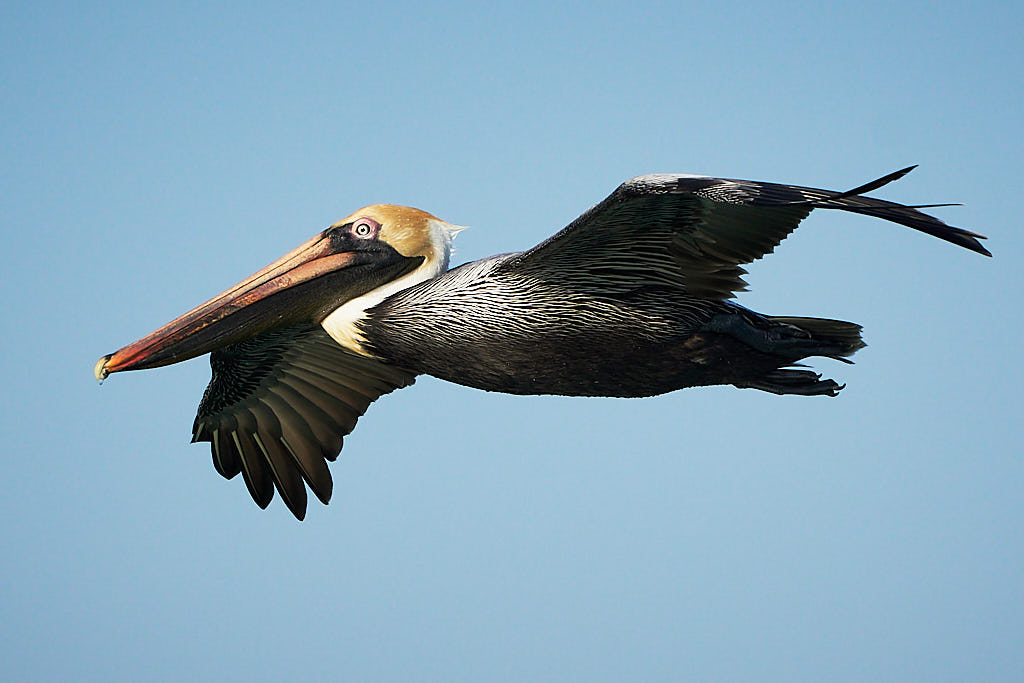
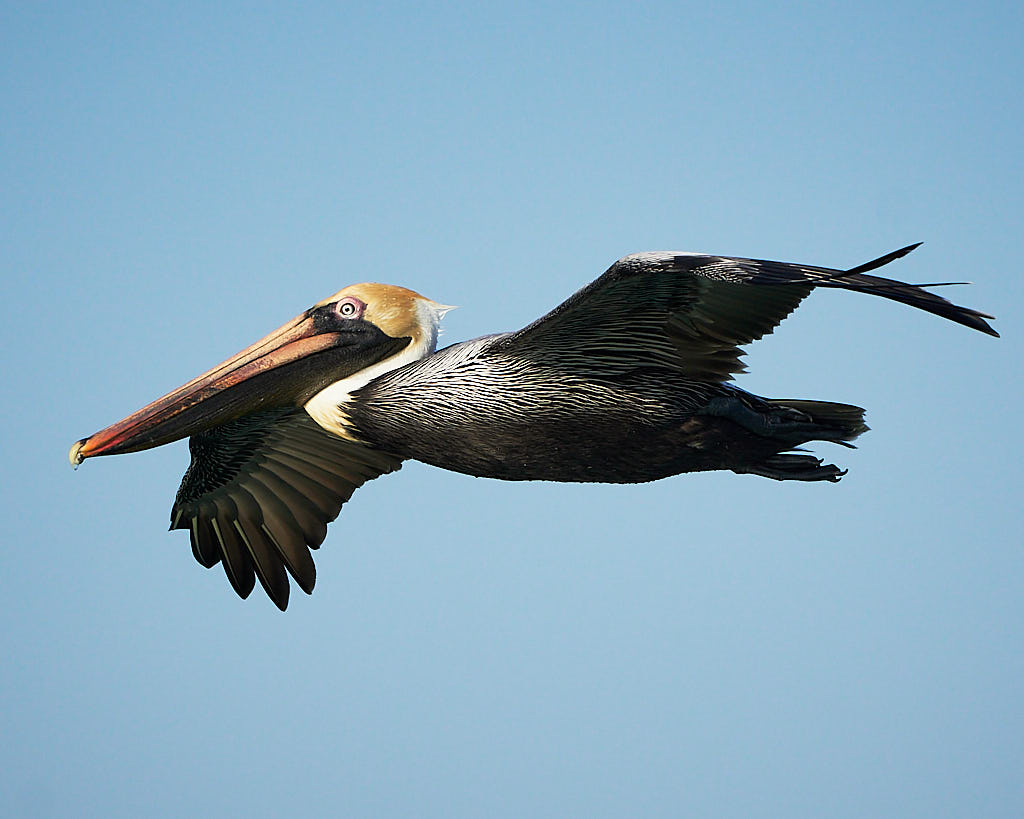
Correct blog images and add preview on main blog page

Changed region(s): [[0.0625, 0.246, 0.9688, 0.7687]]

diff --git a/docs/Blog Archive/2023-03/2023-03-05.md b/docs/Blog Archive/2023-03/2023-03-05.md
@@ -1,84 +1,34 @@
 
-## Florida Birding
+## Sunny Florida Adventures
 2023-03-05
 
-[[SpecificLinkToBlogHere|< Back to Blog Home]]
+[[Blog#Sunny Florida Adventures|< Back to Blog Home]]
 
 ![[DSC05832_3.jpg]]{ .blogItem .blogRow2 data-title="Muscovy Duck protecting her eggs outside the USF campus gym"}
 ![[DSC05829_2.jpg]]{ .blogItem .blogRow2 data-title="Muscovy Duck's eggs outside USF campus gym"}
-
 ![[DSC05959_2.jpg]]{ .blogItem .blogRow2 data-title="Alligator lurking at Lettuce Lake"}
 ![[DSC05987_3.jpg]]{ .blogItem .blogRow2 data-title="White Ibis bathing at Lettuce Lake"}
-
 ![[IMG_8093_1.jpg]]{ .blogItem .blogRow2 data-title="Air plant found on the ground at Violet Cury Nature Preserve"}
 ![[IMG_8095_1.jpg]]{ .blogItem .blogRow2 data-title="Flower at Violet Cury Nature Preserve"}
-
 ![[DSC06294_2.jpg]]{ .blogItem .blogRow2 data-title="Sunrise at Tampa Bay"}
 ![[DSC06733_2.jpg]]{ .blogItem .blogRow2 data-title="Great Blue Heron's long neck at Fort DeSoto"}
-
 ![[DSC06249_2.jpg]]{ .blogItem .blogRow2 data-title="Sunrise at Tampa Bay with my cousin, our friend, and her dog"}
 ![[DSC06322_3.jpg]]{ .blogItem .blogRow2 data-title="Willet walking between me and the sunrise"}
-
 ![[DSC06531_2.jpg]]{ .blogItem .blogRow2 data-title="Reddish Egret doing its foraging dance at Fort DeSoto"}
 ![[DSC06489_3.jpg]]{ .blogItem .blogRow2 data-title="Reddish Egret honing in on prey at Fort DeSoto"}
-
 ![[DSC06616_2.jpg]]{ .blogItem .blogRow2 data-title="Brown Pelican in-flight at Fort DeSoto"}
 ![[DSC06807_3.jpg]]{ .blogItem .blogRow2 data-title="Brown Pelican at Fort DeSoto"}
-
 ![[DSC06789_2.jpg]]{ .blogItem .blogRow2 data-title="Black Skimmers at Fort DeSoto"}
 ![[DSC06797_3.jpg]]{ .blogItem .blogRow2 data-title="Royal Terns looking sassy at Fort DeSoto"}
-
 ![[DSC06594_3.jpg]]{ .blogItem .blogRow2 data-title="Willet foraging at Fort DeSoto"}
 ![[DSC06718_3.jpg]]{ .blogItem .blogRow2 data-title="Piping Plover at Fort DeSoto"}
-
 ![[DSC06833_2.jpg]]{ .blogItem .blogRow3 data-title="Great Blue Heron at Fort DeSoto"}
 ![[DSC06901_3.jpg]]{ .blogItem .blogRow3 data-title="Yellow-crowned Night Heron at Fort DeSoto"}
 ![[DSC06929_2.jpg]]{ .blogItem .blogRow3 data-title="Little Blue Heron at Fort DeSoto"}
-
-![[DSC06935_2.jpg]]{ .blogItem .blogRow3 data-title="Manatee at Fort DeSoto"}
-![[DSC06948_2.jpg]]{ .blogItem .blogRow3 data-title="Juvenile Great Horned Owls at Fort DeSoto"}
-
-![[IMG_8155_1.jpg]]{ .blogItem .blogRow3 data-title="My cousin and I kayaking at Fort DeSoto"}
-![[IMG_8160_1.jpg]]{ .blogItem .blogRow3 data-title="My cousin holding a snail at Fort DeSoto"}
-
-
-- Muscovy duck
-- Eggs
-
-- Alligator shot
-- Ibis shot
-
-- Air plant
-- Flower
-
-- Sunrise shot
-- Gunther neck
-
-- Sunrise w andrew and Savy
-- Pipers with sunset in back
-
-- Reddish egret dancing
-
-- Pelican
-- Pelican flying
-
-- Skimmers
-- Terns
-
-- Willet with food
-- Piping plover
-
-- Great blue heron vertical
-- Lil blue heron vertical (from 4)
-- Yellow cronwed night heron vertical from (4)
-
-- Manatee shot
-- Cuddling great horned owls shot
-
-- Kayaking
-- Andrew holding conch
-
-
+![[DSC06935_2.jpg]]{ .blogItem .blogRow2 data-title="Manatee at Fort DeSoto"}
+![[DSC06948_2.jpg]]{ .blogItem .blogRow2 data-title="Juvenile Great Horned Owls at Fort DeSoto"}
+![[IMG_8155_1.jpg]]{ .blogItem .blogRow2 data-title="My cousin and I kayaking at Fort DeSoto"}
+![[IMG_8160_1.jpg]]{ .blogItem .blogRow2 data-title="My cousin holding a snail at Fort DeSoto"}
 
 [Link to full OneDrive Photo Album](https://1drv.ms/a/s!AvaIuMdCo_w-hM9QrYsGMlOfubUoCQ?e=putCNk)
 

diff --git a/docs/Blog.md b/docs/Blog.md
@@ -2,6 +2,21 @@
 
 ---------------------------------------------------------------
 
+## Sunny Florida Adventures
+2023-03-05
+
+![[DSC05959_2.jpg]]{ .blogItem .blogRow2 data-title="Alligator lurking at Lettuce Lake"}
+![[DSC05987_3.jpg]]{ .blogItem .blogRow2 data-title="White Ibis bathing at Lettuce Lake"}
+![[DSC06249_2.jpg]]{ .blogItem .blogRow2 data-title="Sunrise at Tampa Bay with my cousin, our friend, and her dog"}
+![[DSC06322_3.jpg]]{ .blogItem .blogRow2 data-title="Willet walking between me and the sunrise"}
+![[IMG_8155_1.jpg]]{ .blogItem .blogRow2 data-title="My cousin and I kayaking at Fort DeSoto"}
+![[IMG_8160_1.jpg]]{ .blogItem .blogRow2 data-title="My cousin holding a snail at Fort DeSoto"}
+
+This week I went to Florida to go to Okeechobee Music Festival with my cousin who lives nearby in St. Petersburg. I decided to go two days early before the festival started so I could explore the area and go hiking/birding with my cousin. This was my first time going to Florida so I was very excited. The night before my flight, there was the first major snowfall of the year in New Jersey (~4 inches) and I was up until 1am making a massive snowman with my sister. It was interesting having the plane de-iced before the flight only to land into sunny, 80-degree weather in under 3 hours.
+[[2023-03-05|Continue Reading]]
+
+---------------------------------------------------------------
+
 ## Woodcocks at Bryant Park
 2023-02-20
 
